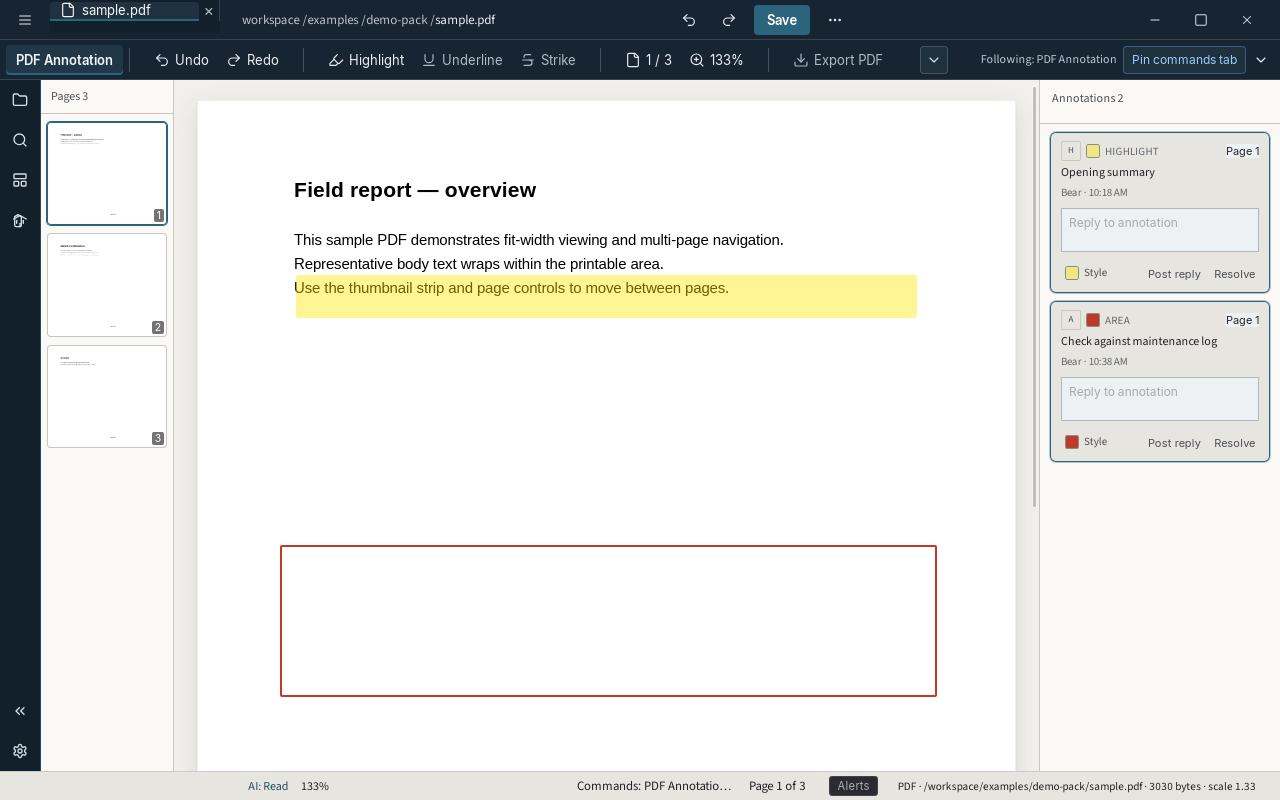
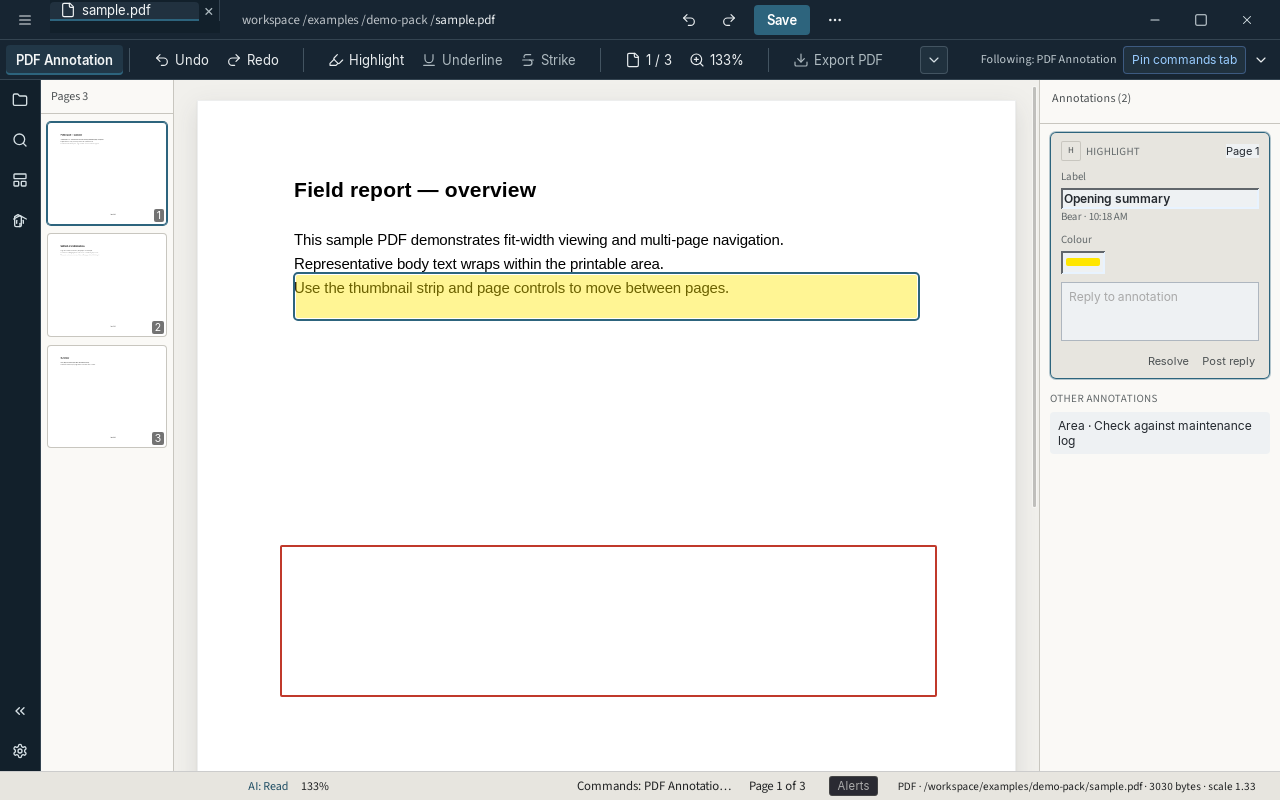
UI-25: Clarify PDF annotation selection
Use the annotations dock as a selected-annotation inspector with a clear
canvas selection outline and quieter secondary rows.

Changed region(s): [[0.8125, 0.1562, 1.0, 0.5625], [0.6875, 0.375, 0.7188, 0.4062]]

diff --git a/crates/unibrowser-desktop/src/documentViewer.ts b/crates/unibrowser-desktop/src/documentViewer.ts
@@ -489,7 +489,8 @@ function pdfAnnotationKindLabel(kind: string | undefined): string {
 function rebuildPdfAnnotationsDock(
   annotDock: HTMLElement,
   highlights: PdfHighlightDto[],
-  currentPage: number,
+  selectedIndex: number,
+  onSelect: (index: number) => void,
   onJump: (page: number) => void,
 ) {
   annotDock.innerHTML = "";
@@ -497,7 +498,7 @@ function rebuildPdfAnnotationsDock(
   head.className = "pdf-annotations-head";
   const annotTitle = document.createElement("h3");
   annotTitle.className = "pdf-annotations-title";
-  annotTitle.textContent = `Annotations ${highlights.length}`;
+  annotTitle.textContent = `Annotations (${highlights.length})`;
   head.appendChild(annotTitle);
   annotDock.appendChild(head);
   const annotBody = document.createElement("div");
@@ -508,90 +509,93 @@ function rebuildPdfAnnotationsDock(
     empty.textContent = "No annotations on this document.";
     annotBody.appendChild(empty);
   } else {
-    const list = document.createElement("ul");
-    list.className = "pdf-annotations-list";
-    highlights.forEach((h, index) => {
-      const li = document.createElement("li");
-      li.className = "pdf-annotation-card";
-      if (h.page === currentPage) {
-        li.classList.add("pdf-annotation-card--current");
-      }
-      const row = document.createElement("div");
-      row.className = "pdf-annotation-card-head";
-      const identity = document.createElement("span");
-      identity.className = "pdf-annotation-identity";
-      const icon = document.createElement("span");
-      icon.className = `pdf-annotation-icon pdf-annotation-icon--${h.kind ?? "highlight"}`;
-      icon.setAttribute("aria-hidden", "true");
-      icon.textContent = h.kind === "note" ? "N" : h.kind === "area" ? "A" : "H";
-      const swatch = document.createElement("span");
-      swatch.className = "pdf-annotation-colour";
-      swatch.style.backgroundColor = h.color;
-      swatch.setAttribute("aria-label", `Annotation colour ${h.color}`);
-      const kind = document.createElement("span");
-      kind.className = "pdf-annotation-kind";
-      kind.textContent = pdfAnnotationKindLabel(h.kind);
-      identity.append(icon, swatch, kind);
-      const pageLink = document.createElement("button");
-      pageLink.type = "button";
-      pageLink.className = "pdf-annotation-page";
-      pageLink.textContent = `Page ${h.page}`;
-      pageLink.onclick = () => onJump(h.page);
-      row.appendChild(identity);
-      row.appendChild(pageLink);
-      const title = document.createElement("p");
-      title.className = "pdf-annotation-label";
-      title.textContent = h.label ?? `Annotation ${index + 1}`;
-      const meta = document.createElement("p");
-      meta.className = "pdf-annotation-meta";
-      const who = h.author ?? "Unknown";
-      const when = formatPdfAnnotationTime(h.created_at_ms);
-      meta.textContent = when ? `${who} · ${when}` : who;
-      const appearance = document.createElement("details");
-      appearance.className = "pdf-annotation-appearance";
-      const appearanceTrigger = document.createElement("summary");
-      appearanceTrigger.setAttribute("aria-label", "Annotation style");
-      const appearanceSwatch = document.createElement("span");
-      appearanceSwatch.className = "pdf-annotation-colour";
-      appearanceSwatch.style.backgroundColor = h.color;
-      appearanceTrigger.append(appearanceSwatch, document.createTextNode("Style"));
-      const popover = document.createElement("div");
-      popover.className = "pdf-annotation-swatch-popover";
-      const colour = document.createElement("input");
-      colour.type = "color";
-      colour.value = h.kind === "area" ? "#c0392b" : "#ffe600";
-      colour.setAttribute("aria-label", "Annotation colour");
-      const thickness = document.createElement("input");
-      thickness.type = "range";
-      thickness.min = "1";
-      thickness.max = "8";
-      thickness.value = h.kind === "area" ? "2" : "1";
-      thickness.setAttribute("aria-label", "Annotation thickness");
-      popover.append(colour, thickness);
-      appearance.append(appearanceTrigger, popover);
-      const reply = document.createElement("textarea");
-      reply.className = "pdf-annotation-reply";
-      reply.rows = 2;
-      reply.placeholder = "Reply to annotation";
-      const actions = document.createElement("div");
-      actions.className = "pdf-annotation-actions";
-      const resolveBtn = document.createElement("button");
-      resolveBtn.type = "button";
-      resolveBtn.className = "pdf-annotation-resolve";
-      resolveBtn.textContent = "Resolve";
-      const replyBtn = document.createElement("button");
-      replyBtn.type = "button";
-      replyBtn.className = "pdf-annotation-reply-btn";
-      replyBtn.textContent = "Post reply";
-      actions.append(appearance, replyBtn, resolveBtn);
-      li.appendChild(row);
-      li.appendChild(title);
-      li.appendChild(meta);
-      li.appendChild(reply);
-      li.appendChild(actions);
-      list.appendChild(li);
-    });
-    annotBody.appendChild(list);
+    const safeIndex =
+      selectedIndex >= 0 && selectedIndex < highlights.length ? selectedIndex : 0;
+    const selected = highlights[safeIndex];
+    const inspector = document.createElement("section");
+    inspector.className = "pdf-annotation-inspector pdf-annotation-card pdf-annotation-card--selected";
+    inspector.setAttribute("aria-label", "Selected annotation");
+    const toolRow = document.createElement("div");
+    toolRow.className = "pdf-annotation-card-head";
+    const identity = document.createElement("span");
+    identity.className = "pdf-annotation-identity";
+    const icon = document.createElement("span");
+    icon.className = `pdf-annotation-icon pdf-annotation-icon--${selected.kind ?? "highlight"}`;
+    icon.setAttribute("aria-hidden", "true");
+    icon.textContent = selected.kind === "note" ? "N" : selected.kind === "area" ? "A" : "H";
+    const kind = document.createElement("span");
+    kind.className = "pdf-annotation-kind";
+    kind.textContent = pdfAnnotationKindLabel(selected.kind);
+    identity.append(icon, kind);
+    const pageLink = document.createElement("button");
+    pageLink.type = "button";
+    pageLink.className = "pdf-annotation-page";
+    pageLink.textContent = `Page ${selected.page}`;
+    pageLink.onclick = () => onJump(selected.page);
+    toolRow.append(identity, pageLink);
+    const title = document.createElement("label");
+    title.className = "pdf-annotation-field";
+    const titleCaption = document.createElement("span");
+    titleCaption.textContent = "Label";
+    const titleInput = document.createElement("input");
+    titleInput.type = "text";
+    titleInput.value = selected.label ?? `Annotation ${safeIndex + 1}`;
+    titleInput.setAttribute("aria-label", "Annotation label");
+    title.append(titleCaption, titleInput);
+    const meta = document.createElement("p");
+    meta.className = "pdf-annotation-meta";
+    const who = selected.author ?? "Unknown";
+    const when = formatPdfAnnotationTime(selected.created_at_ms);
+    meta.textContent = when ? `${who} · ${when}` : who;
+    const colourField = document.createElement("label");
+    colourField.className = "pdf-annotation-field";
+    const colourCaption = document.createElement("span");
+    colourCaption.textContent = "Colour";
+    const colour = document.createElement("input");
+    colour.type = "color";
+    colour.value = selected.kind === "area" ? "#c0392b" : "#ffe600";
+    colour.setAttribute("aria-label", "Annotation colour");
+    colourField.append(colourCaption, colour);
+    const reply = document.createElement("textarea");
+    reply.className = "pdf-annotation-reply";
+    reply.rows = 3;
+    reply.placeholder = "Reply to annotation";
+    const actions = document.createElement("div");
+    actions.className = "pdf-annotation-actions";
+    const resolveBtn = document.createElement("button");
+    resolveBtn.type = "button";
+    resolveBtn.className = "pdf-annotation-resolve";
+    resolveBtn.textContent = "Resolve";
+    const replyBtn = document.createElement("button");
+    replyBtn.type = "button";
+    replyBtn.className = "pdf-annotation-reply-btn";
+    replyBtn.textContent = "Post reply";
+    actions.append(resolveBtn, replyBtn);
+    inspector.append(toolRow, title, meta, colourField, reply, actions);
+    annotBody.appendChild(inspector);
+
+    if (highlights.length > 1) {
+      const indexTitle = document.createElement("h4");
+      indexTitle.className = "pdf-annotations-index-title";
+      indexTitle.textContent = "Other annotations";
+      annotBody.appendChild(indexTitle);
+      const list = document.createElement("ul");
+      list.className = "pdf-annotations-index";
+      highlights.forEach((h, index) => {
+        if (index === safeIndex) {
+          return;
+        }
+        const li = document.createElement("li");
+        const pick = document.createElement("button");
+        pick.type = "button";
+        pick.className = "pdf-annotation-index-row";
+        pick.textContent = `${pdfAnnotationKindLabel(h.kind)} · ${h.label ?? `Annotation ${index + 1}`}`;
+        pick.onclick = () => onSelect(index);
+        li.appendChild(pick);
+        list.appendChild(li);
+      });
+      annotBody.appendChild(list);
+    }
   }
   annotDock.appendChild(annotBody);
 }
@@ -626,6 +630,7 @@ async function renderPdf(
   } catch {
     highlights = [];
   }
+  let selectedHighlightIndex = 0;
 
   const workspace = document.createElement("div");
   workspace.className = "pdf-workspace";
@@ -653,21 +658,36 @@ async function renderPdf(
   workspace.appendChild(annotDock);
 
   const syncAnnotationDock = () => {
-    rebuildPdfAnnotationsDock(annotDock, highlights, currentPage, (p) => {
-      void goToPage(p);
-    });
+    rebuildPdfAnnotationsDock(
+      annotDock,
+      highlights,
+      selectedHighlightIndex,
+      (index) => {
+        selectedHighlightIndex = index;
+        void drawPage(currentPage);
+        syncAnnotationDock();
+      },
+      (p) => {
+        void goToPage(p);
+      },
+    );
     reportViewerPdfPage(currentPage, doc.numPages, highlights.length);
   };
 
   const paintHighlights = (pageNum: number, host: HTMLElement, width: number, height: number) => {
     host.querySelectorAll(".pdf-highlight-rect").forEach((el) => el.remove());
-    for (const h of highlights) {
+    highlights.forEach((h, index) => {
       if (h.page !== pageNum) {
-        continue;
+        return;
       }
       const box = document.createElement("div");
       const isArea = h.kind === "area";
       box.className = isArea ? "pdf-highlight-rect pdf-area-rect" : "pdf-highlight-rect";
+      if (index === selectedHighlightIndex) {
+        box.classList.add("pdf-highlight-rect--selected");
+        box.setAttribute("aria-current", "true");
+      }
+      box.tabIndex = 0;
       const cssRect = normalisedPdfRectToCss(h, width, height);
       box.style.left = `${cssRect.left}px`;
       box.style.top = `${cssRect.top}px`;
@@ -678,8 +698,13 @@ async function renderPdf(
       } else {
         box.style.background = h.color;
       }
+      box.onclick = () => {
+        selectedHighlightIndex = index;
+        syncAnnotationDock();
+        paintHighlights(pageNum, host, width, height);
+      };
       host.appendChild(box);
-    }
+    });
   };
 
   const thumbsPanel = document.createElement("aside");

diff --git a/crates/unibrowser-desktop/src/styles.css b/crates/unibrowser-desktop/src/styles.css
@@ -3085,9 +3085,64 @@ body.content-fullscreen::after {
   background: var(--ub-well, #fff);
 }
 
-.pdf-annotation-card--current {
+.pdf-annotation-card--selected {
   border-color: var(--ub-accent, #3d7ea6);
   box-shadow: 0 0 0 1px color-mix(in srgb, var(--ub-accent, #3d7ea6) 35%, transparent);
+}
+
+.pdf-annotation-inspector .pdf-annotation-field {
+  display: flex;
+  flex-direction: column;
+  gap: 4px;
+  margin: 8px 0 0;
+  font-size: 11px;
+  color: var(--ub-text-3, #6a7074);
+}
+
+.pdf-annotation-inspector .pdf-annotation-field input {
+  font-size: 12px;
+  font-weight: 600;
+  color: var(--ub-text-1, #252a30);
+}
+
+.pdf-annotations-index-title {
+  margin: 12px 0 6px;
+  font-size: 11px;
+  font-weight: 600;
+  text-transform: uppercase;
+  letter-spacing: 0.04em;
+  color: var(--ub-text-3, #6a7074);
+}
+
+.pdf-annotations-index {
+  margin: 0;
+  padding: 0;
+  list-style: none;
+  display: flex;
+  flex-direction: column;
+  gap: 2px;
+}
+
+.pdf-annotation-index-row {
+  width: 100%;
+  text-align: left;
+  padding: 6px 8px;
+  border: 0;
+  border-radius: 4px;
+  background: transparent;
+  color: var(--ub-text-2, #4b5052);
+  font-size: 12px;
+  cursor: pointer;
+}
+
+.pdf-annotation-index-row:hover,
+.pdf-annotation-index-row:focus-visible {
+  background: rgb(31 35 38 / 6%);
+}
+
+.pdf-highlight-rect--selected {
+  outline: 2px solid var(--ub-accent, #3d7ea6);
+  outline-offset: 1px;
 }
 
 .pdf-annotation-card-head {

diff --git a/docs/design/ui-implementation-plan.md b/docs/design/ui-implementation-plan.md
@@ -805,6 +805,9 @@ Fail rule:
 
 ### UI-25: Clarify PDF annotation selection
 
+Status: done 2026-10-07. Right dock shows one selected-annotation inspector with
+editable fields; canvas selection outline; other annotations listed quietly.
+
 Work:
 
 - Make one annotation visibly selected and use the right dock as its inspector.
